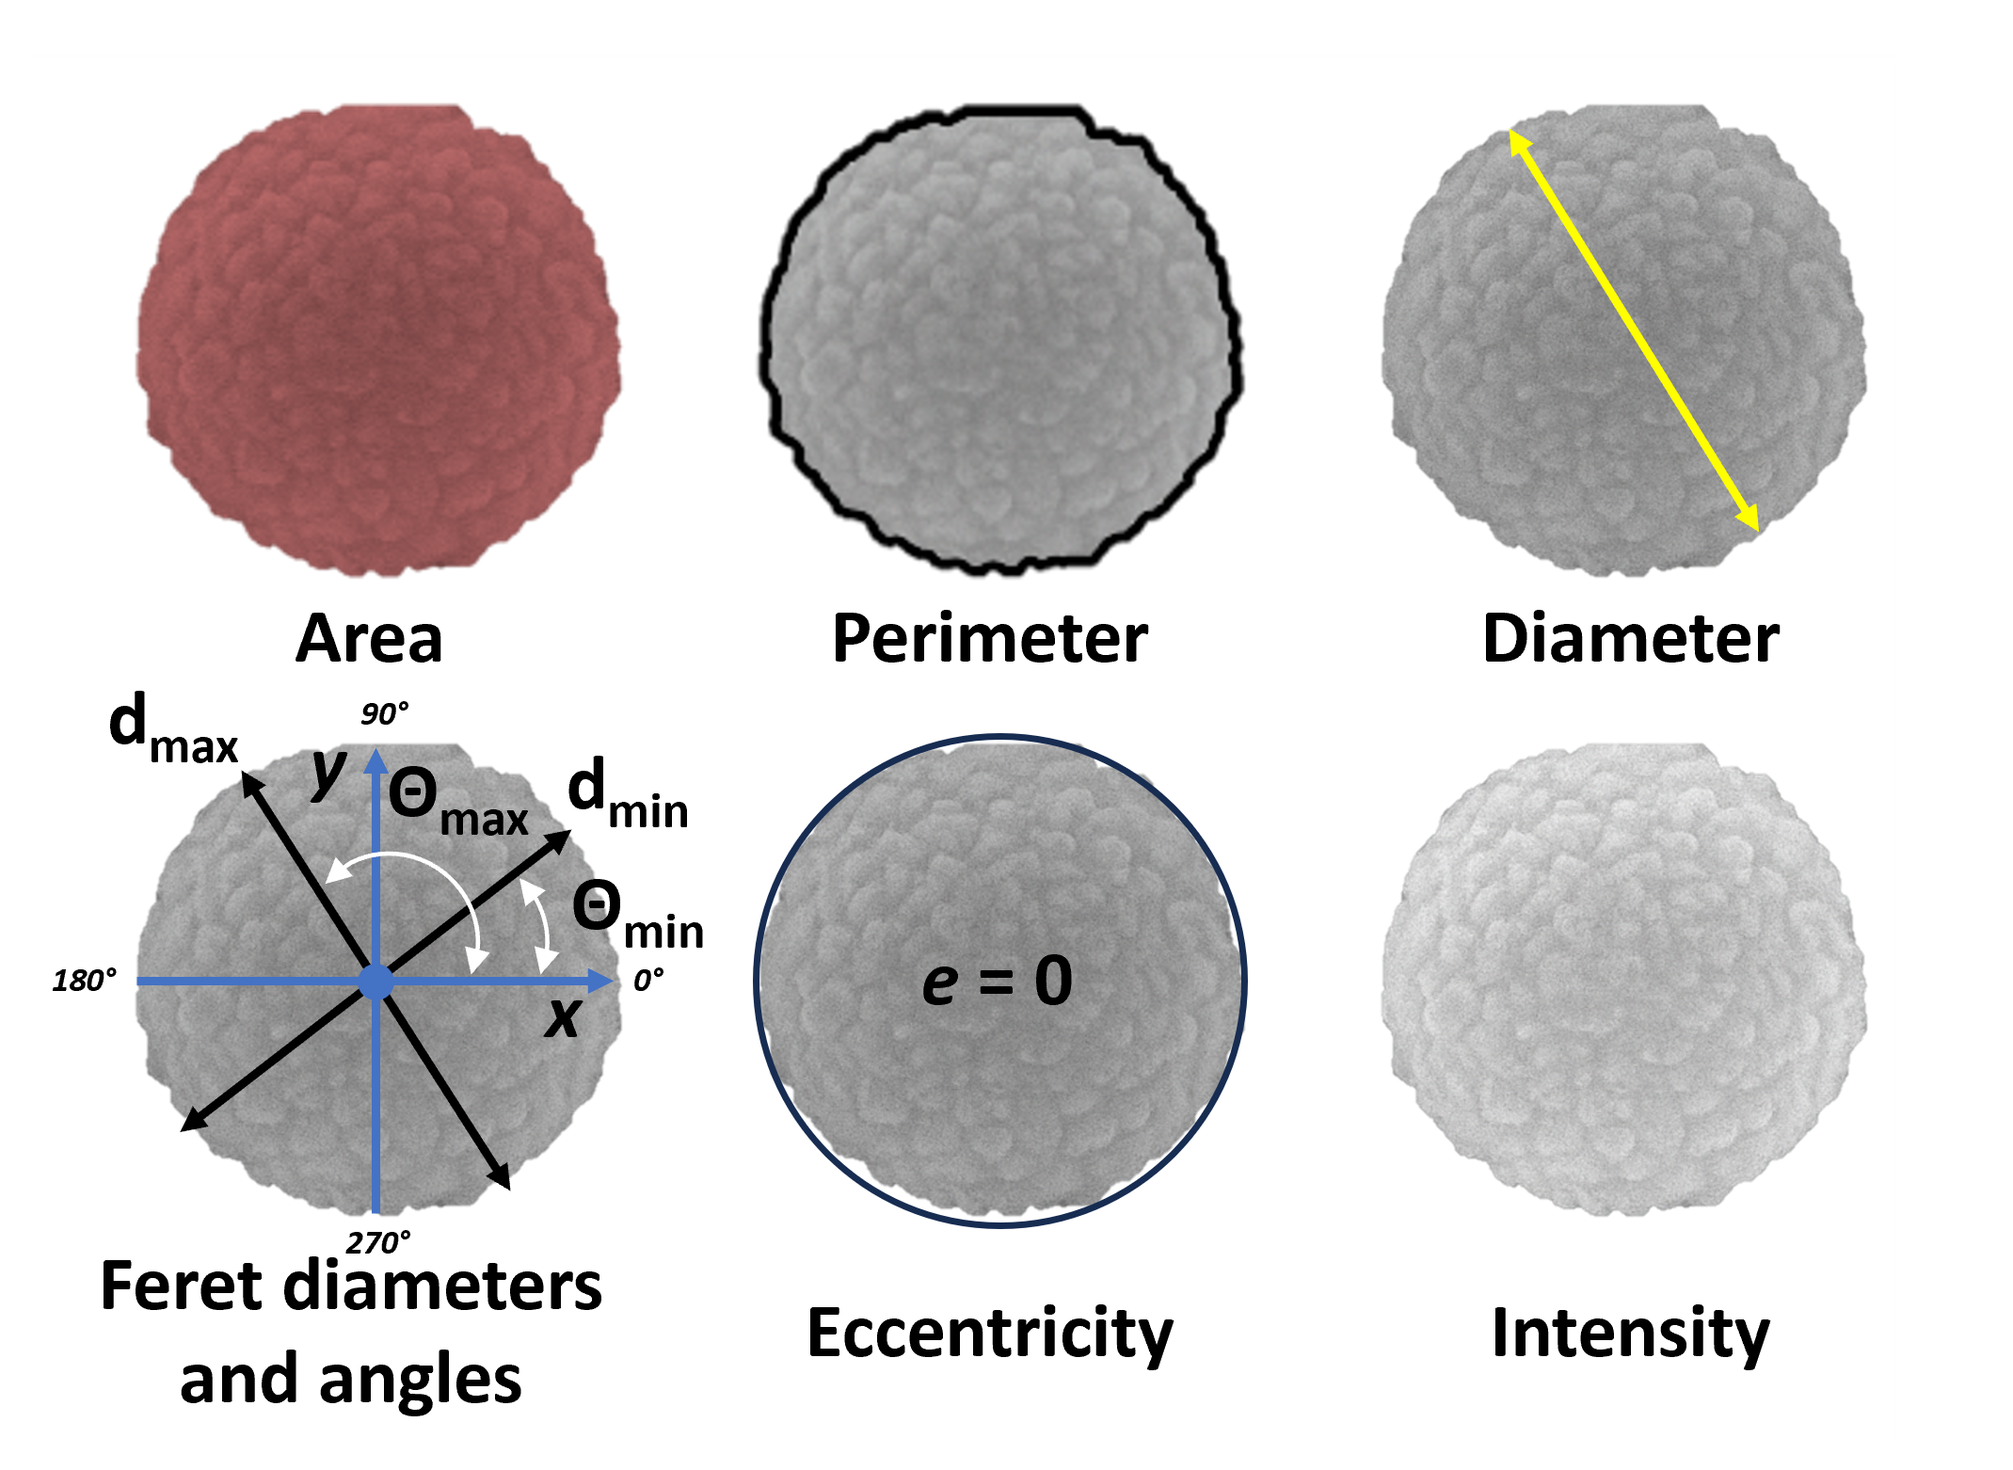
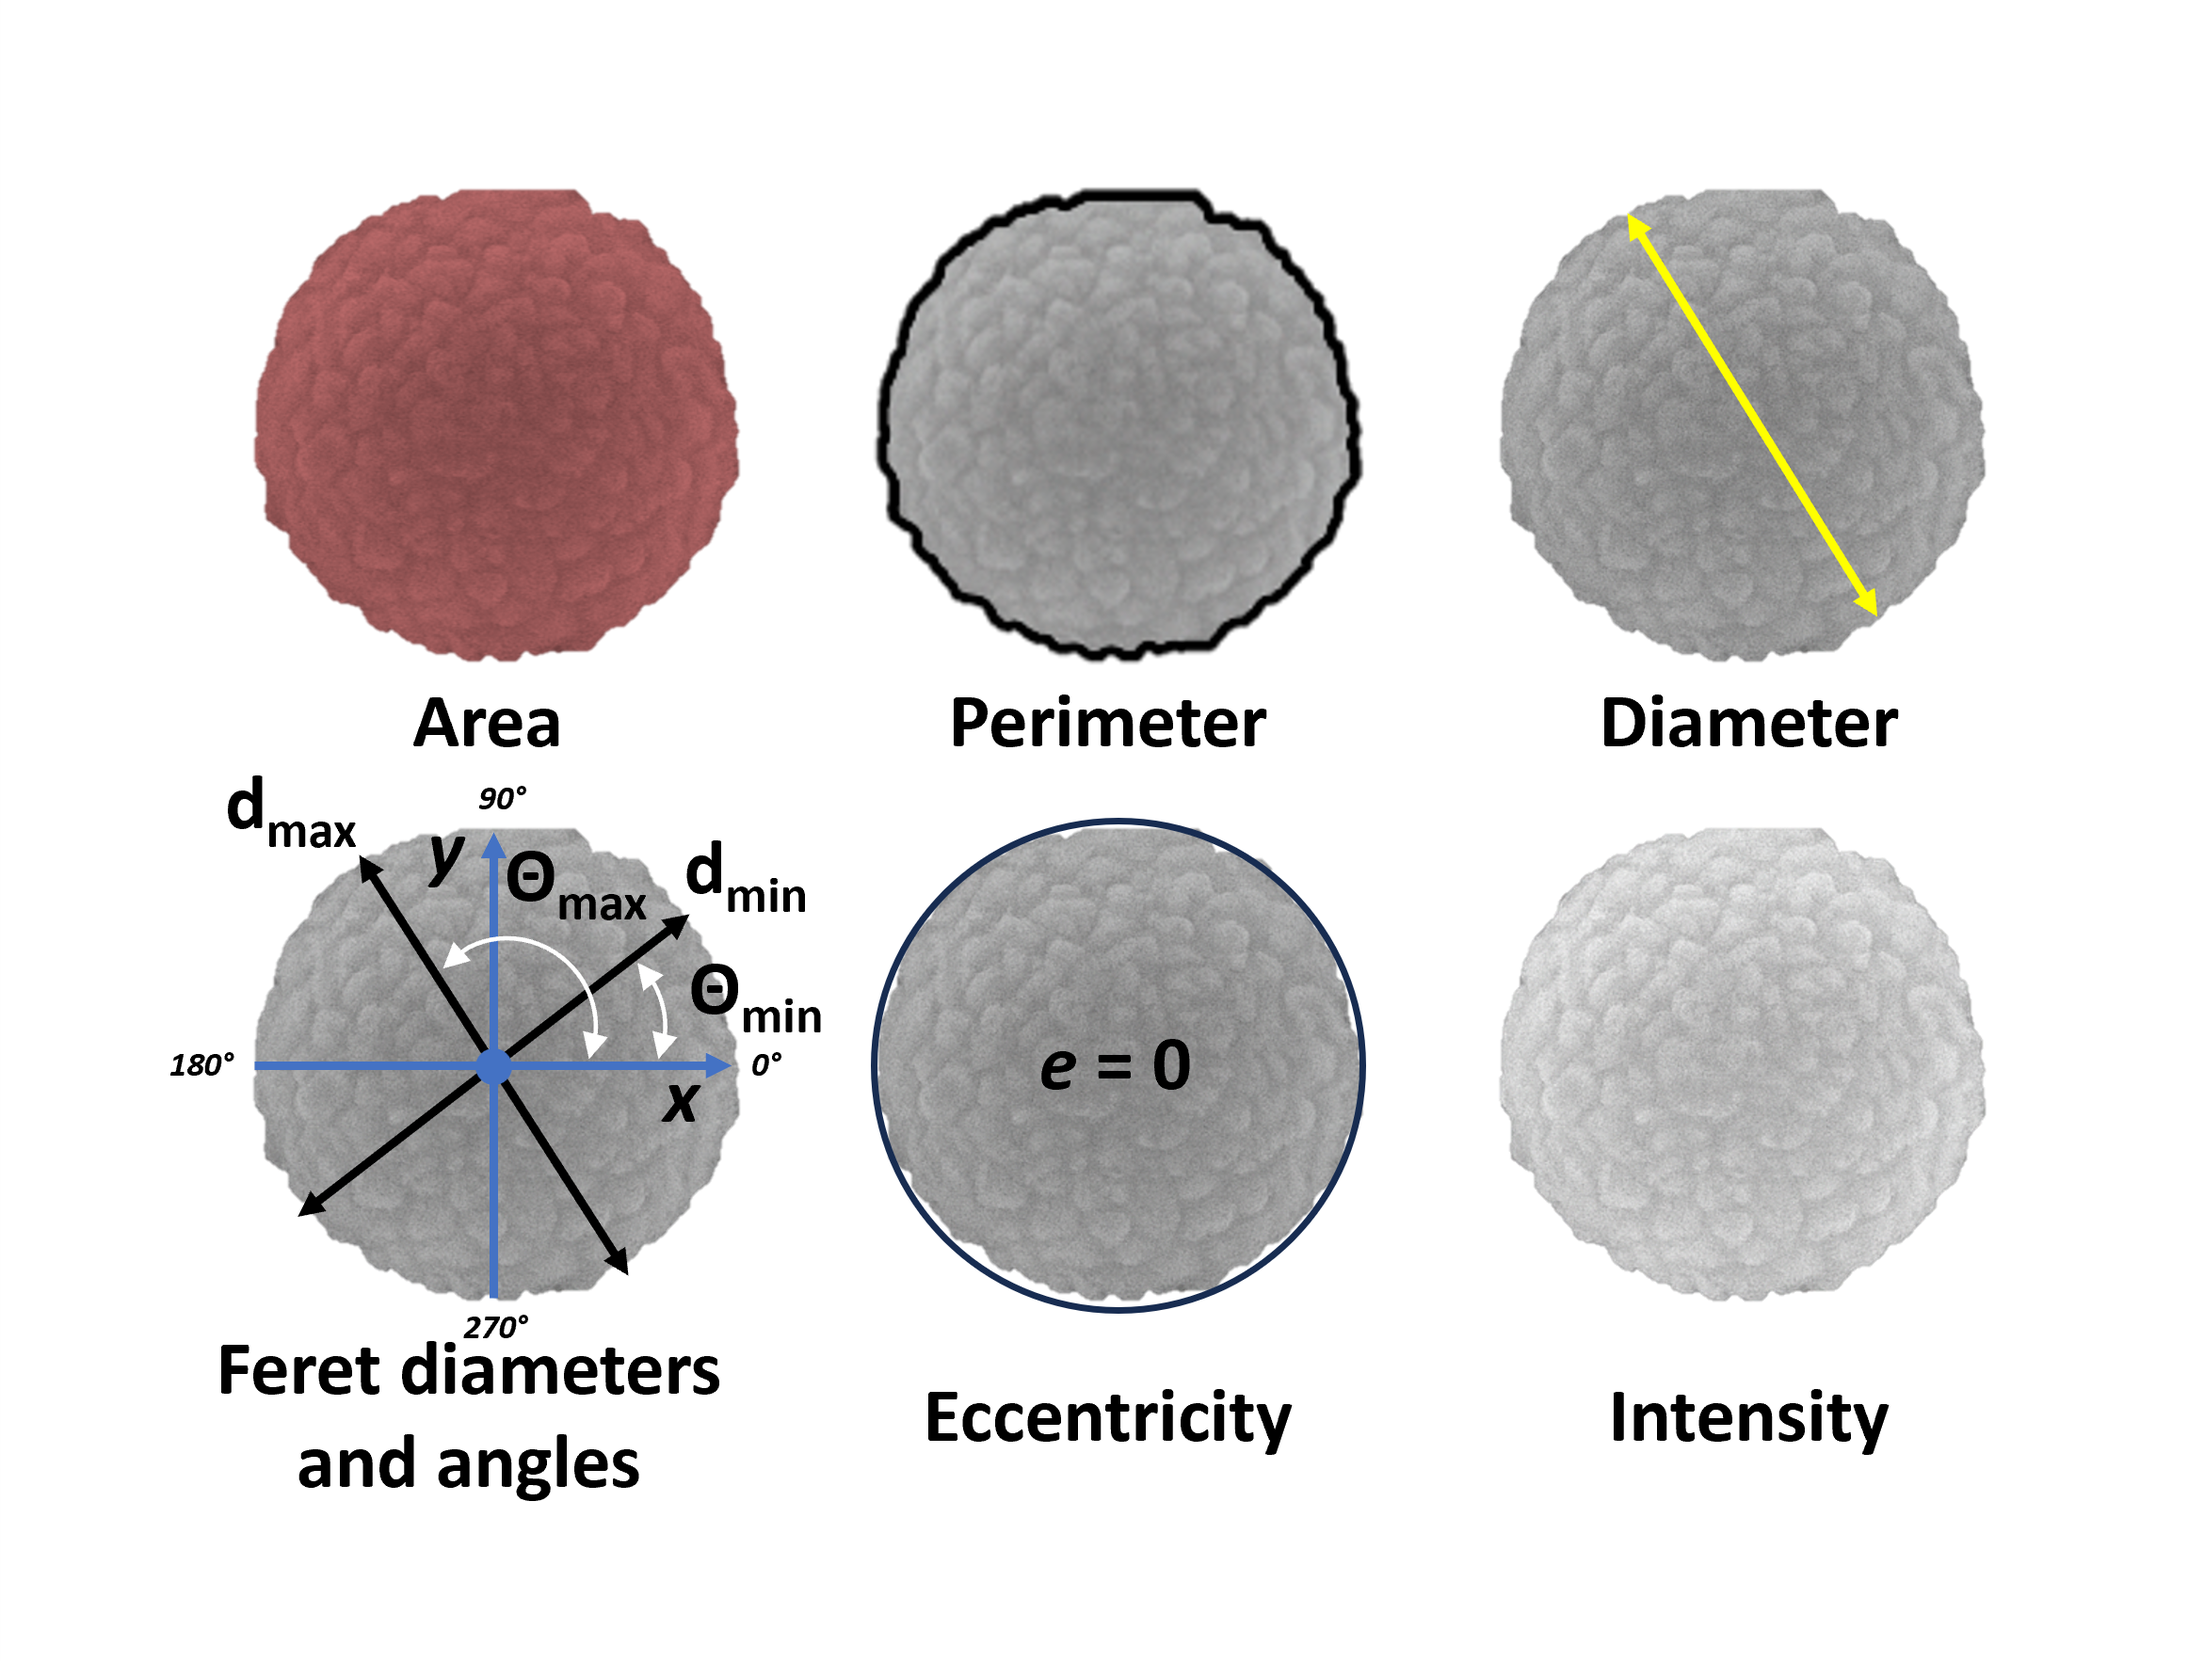
Update

diff --git a/particleanalyzer/core/CustomDetectron2Model.py b/particleanalyzer/core/CustomDetectron2Model.py
@@ -1,6 +1,4 @@
 from sahi.models.detectron2 import Detectron2DetectionModel
-from detectron2.config import get_cfg
-import os
 
 """Переопределяем load_model для скрытия ошибки"""
 class CustomDetectron2Model(Detectron2DetectionModel):
@@ -8,8 +6,7 @@ class CustomDetectron2Model(Detectron2DetectionModel):
         from detectron2.config import get_cfg
         from detectron2.data import MetadataCatalog
         from detectron2.engine import DefaultPredictor
-        from detectron2.model_zoo import model_zoo
-
+        
         cfg = get_cfg()
 
         try:  # Переделываем импорт конфига и модели для скрытия ошибки "{} not available in Model Zoo!"

diff --git a/particleanalyzer/core/ParticleAnalyzer.py b/particleanalyzer/core/ParticleAnalyzer.py
@@ -9,7 +9,6 @@ import gc
 from tqdm import tqdm
 from typing import Optional, Tuple, List, Dict, Any, Union
 from scipy.spatial.distance import pdist
-
 try:
     from detectron2.engine import DefaultPredictor
     from particleanalyzer.core.CustomDetectron2Model import CustomDetectron2Model
@@ -136,7 +135,6 @@ class ParticleAnalyzer:
                 
             # Выбор стратегии обработки
             processor = self._select_processor(model_change, sahi_mode)
-
             output_image, particle_data, annotations = processor(image, 
                     scale_input, confidence_threshold,
                     scale_selector, confidence_iou, 
